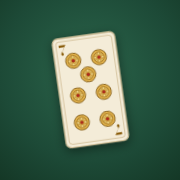
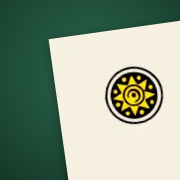
Scopa: carte napoletane vere al posto di quelle disegnate
Le 40 carte e il dorso sono ora le scansioni del mazzo napoletano di
Wikimedia Commons (Trocche100, pubblico dominio), in WebP 320x529 nella
cartella carte/ e messe in cache dal service worker per l'uso offline.
Icone rifatte con il settebello vero; fonti e modifiche nel README.

Claude-Session: https://claude.ai/code/session_01B35AvHLbjFUyg2kKocR2iX

diff --git a/scopa/index.html b/scopa/index.html
@@ -140,11 +140,11 @@ button { font: inherit; color: inherit; }
 .zone.active .who { color: var(--oro); }
 @keyframes pulse { 50% { box-shadow: 0 0 0 7px color-mix(in srgb, var(--oro) 0%, transparent); } }
 
-.backs { display: flex; justify-content: center; min-height: calc(var(--bw) * 1.72); }
+.backs { display: flex; justify-content: center; min-height: calc(var(--bw) * 1.653); }
 .backs .card { width: var(--bw); }
 .backs .card + .card { margin-left: calc(var(--bw) * -0.55); }
 .zone.left .backs, .zone.right .backs { flex-direction: column; align-items: center; }
-.zone.left .backs .card + .card, .zone.right .backs .card + .card { margin-left: 0; margin-top: calc(var(--bw) * -1.38); }
+.zone.left .backs .card + .card, .zone.right .backs .card + .card { margin-left: 0; margin-top: calc(var(--bw) * -1.33); }
 .zone.left .who, .zone.right .who { writing-mode: horizontal-tb; font-size: 11px; }
 
 .felt-table {
@@ -158,7 +158,7 @@ button { font: inherit; color: inherit; }
   justify-content: center;
   padding: 14px;
   overflow: auto;
-  min-height: calc(var(--tw) * 1.72 + 28px);
+  min-height: calc(var(--tw) * 1.653 + 28px);
 }
 .tcards { display: flex; flex-wrap: wrap; justify-content: center; align-content: center; gap: 10px; max-width: 100%; }
 .tcards .card { width: var(--tw); }
@@ -202,7 +202,7 @@ button { font: inherit; color: inherit; }
 /* ---------- carte ---------- */
 .card {
   display: block;
-  aspect-ratio: 100 / 172;
+  aspect-ratio: 1324 / 2188;
   max-width: 100%;
   padding: 0;
   border: 0;
@@ -212,7 +212,17 @@ button { font: inherit; color: inherit; }
   position: relative;
   filter: drop-shadow(0 2px 3px color-mix(in srgb, black 35%, transparent));
 }
-.card svg { display: block; width: 100%; height: 100%; }
+.card img {
+  display: block;
+  width: 100%;
+  height: 100%;
+  box-sizing: border-box;
+  border: 1px solid var(--paper-edge);
+  border-radius: 7% / 4.3%;
+  background: var(--paper);
+  -webkit-user-drag: none;
+  user-select: none;
+}
 button.card { cursor: pointer; transition: transform .18s ease; }
 button.card:disabled { cursor: default; }
 .hand button.card:not(:disabled):hover { transform: translateY(-8px); }
@@ -231,8 +241,6 @@ button.card:disabled { cursor: default; }
 .card.taken::after { border-color: var(--oro); background: color-mix(in srgb, var(--oro) 22%, transparent); }
 .card.hint::after { border-color: #9fe0ff; border-style: dashed; }
 .flyer { position: fixed; left: 0; top: 0; transform-origin: 0 0; z-index: 60; pointer-events: none; }
-.cv { font-family: var(--f-display); font-weight: 700; font-size: 21px; }
-.fig { font-family: var(--f-body); font-weight: 700; font-size: 10px; letter-spacing: .22em; }
 
 /* ---------- scritta scopa ---------- */
 #toast {
@@ -385,10 +393,6 @@ details.rules b { color: var(--chalk); }
 <body>
 <svg width="0" height="0" style="position:absolute" aria-hidden="true">
   <defs>
-    <pattern id="lattice" width="10" height="10" patternUnits="userSpaceOnUse" patternTransform="rotate(45)">
-      <rect width="10" height="10" fill="#7b1d18"/>
-      <path d="M0 5H10M5 0V10" stroke="#e2b24c" stroke-opacity=".45" stroke-width="1.2"/>
-    </pattern>
     <symbol id="s-D" viewBox="0 0 100 100">
       <circle cx="50" cy="50" r="45" fill="#e2b24c" stroke="#7a5410" stroke-width="5"/>
       <circle cx="50" cy="50" r="31" fill="none" stroke="#7a5410" stroke-width="3"/>
@@ -419,13 +423,6 @@ details.rules b { color: var(--chalk); }
         <path d="M44 28Q34 22 31 28Q36 34 44 33Z M57 50Q68 44 71 51Q65 56 57 55Z M45 70Q34 66 32 72Q38 77 46 75Z" fill="#5f8a33" stroke="#2d4a14" stroke-width="2.5"/>
         <path d="M48 14V86" stroke="#3e2410" stroke-width="2" stroke-opacity=".45"/>
       </g>
-    </symbol>
-    <symbol id="back" viewBox="0 0 100 172">
-      <rect x="1.5" y="1.5" width="97" height="169" rx="8" fill="#f4ecd8" stroke="#cdbd97" stroke-width="2"/>
-      <rect x="7" y="7" width="86" height="158" rx="5" fill="url(#lattice)"/>
-      <rect x="7" y="7" width="86" height="158" rx="5" fill="none" stroke="#e2b24c" stroke-width="2"/>
-      <ellipse cx="50" cy="86" rx="20" ry="28" fill="#7b1d18" stroke="#e2b24c" stroke-width="2.5"/>
-      <text x="50" y="96" text-anchor="middle" font-family="Bodoni Moda, Georgia, serif" font-style="italic" font-weight="700" font-size="28" fill="#e2b24c">S</text>
     </symbol>
   </defs>
 </svg>
@@ -513,6 +510,7 @@ details.rules b { color: var(--chalk); }
         <li>Punti: <b>carte</b> (chi ne ha più di 20), <b>denari</b> (più di 5), <b>settebello</b> (il 7 di Denari), <b>primiera</b> e una per ogni scopa. In caso di pareggio il punto non va a nessuno.</li>
         <li><b>Primiera</b>: per ogni seme conta la carta migliore. 7 vale 21, 6 vale 18, Asso 16, 5 vale 15, 4 vale 14, 3 vale 13, 2 vale 12, le figure 10. Vince il totale più alto; serve almeno una carta per seme.</li>
         <li>Nello <b>scopone</b> si gioca in coppia con chi sta di fronte, in senso antiorario. Le prese e le scope della coppia si sommano.</li>
+        <li>Le carte sono le scansioni di un mazzo napoletano pubblicate su Wikimedia Commons da Trocche100, in pubblico dominio.</li>
       </ul>
     </details>
   </div>
@@ -531,7 +529,6 @@ details.rules b { color: var(--chalk); }
 /* ================= mazzo ================= */
 const SUITS = ["D", "C", "S", "B"];
 const SUIT_NAMES = { D: "Denari", C: "Coppe", S: "Spade", B: "Bastoni" };
-const SUIT_COL = { D: "#8a5d0c", C: "#a8231b", S: "#1f3f86", B: "#2d6630" };
 const FIG = { 8: "Fante", 9: "Cavallo", 10: "Re" };
 const PRIME = { 1: 16, 2: 12, 3: 13, 4: 14, 5: 15, 6: 18, 7: 21, 8: 10, 9: 10, 10: 10 };
 const ALL = [];
@@ -550,42 +547,11 @@ function shuffle(a) {
   return a;
 }
 
-/* ================= disegno carte ================= */
-const PIPS = {
-  1: [[50, 86, 60]],
-  2: [[50, 50, 40], [50, 122, 40]],
-  3: [[50, 38, 34], [50, 86, 34], [50, 134, 34]],
-  4: [[30, 50, 32], [70, 50, 32], [30, 122, 32], [70, 122, 32]],
-  5: [[30, 46, 30], [70, 46, 30], [50, 86, 30], [30, 126, 30], [70, 126, 30]],
-  6: [[30, 40, 28], [70, 40, 28], [30, 86, 28], [70, 86, 28], [30, 132, 28], [70, 132, 28]],
-  7: [[30, 38, 26], [70, 38, 26], [50, 62, 26], [30, 92, 26], [70, 92, 26], [30, 134, 26], [70, 134, 26]],
-};
-const EMBLEM = {
-  8: col => `<ellipse cx="50" cy="60" rx="17" ry="5.5" fill="${col}"/><path d="M48 56Q58 36 72 40Q60 45 55 57Z" fill="${col}"/>`,
-  9: col => `<path d="M37 41C37 68 63 68 63 41" fill="none" stroke="${col}" stroke-width="6" stroke-linecap="round"/>`,
-  10: col => `<path d="M31 62V45L41 53L50 39L59 53L69 45V62Z" fill="${col}" stroke-linejoin="round"/>`,
-};
-const svgCache = {};
-function cardSVG(c) {
-  if (svgCache[c.id]) return svgCache[c.id];
-  const col = SUIT_COL[c.s];
-  let body = "";
-  if (c.v <= 7) {
-    for (const [x, y, z] of PIPS[c.v]) body += `<use href="#s-${c.s}" x="${x - z / 2}" y="${y - z / 2}" width="${z}" height="${z}"/>`;
-  } else {
-    body = `<rect x="15" y="32" width="70" height="108" rx="6" fill="${col}" fill-opacity=".1" stroke="${col}" stroke-opacity=".5"/>`
-      + EMBLEM[c.v](col)
-      + `<use href="#s-${c.s}" x="28" y="72" width="44" height="44"/>`
-      + `<text x="50" y="133" text-anchor="middle" class="fig" fill="${col}">${FIG[c.v].toUpperCase()}</text>`;
-  }
-  const corner = `<text x="10" y="27" class="cv" fill="${col}">${c.v}</text>`;
-  const svg = `<svg viewBox="0 0 100 172" aria-hidden="true">`
-    + `<rect x="1.5" y="1.5" width="97" height="169" rx="8" fill="#f4ecd8" stroke="#cdbd97" stroke-width="2"/>`
-    + `<rect x="6.5" y="6.5" width="87" height="159" rx="5" fill="none" stroke="${col}" stroke-opacity=".35" stroke-width="1.2"/>`
-    + body + corner + `<g transform="rotate(180 50 86)">${corner}</g></svg>`;
-  return (svgCache[c.id] = svg);
-}
-const BACK = `<svg viewBox="0 0 100 172" aria-hidden="true"><use href="#back"/></svg>`;
+/* ================= carte ================= */
+// Scansioni del mazzo napoletano da Wikimedia Commons (pubblico dominio, Trocche100).
+const IMG = id => "carte/" + id + ".webp";
+const cardFace = c => `<img src="${IMG(c.id)}" alt="" draggable="false">`;
+const BACK = `<img src="${IMG("back")}" alt="" draggable="false">`;
 const pipIcon = s => `<svg class="pip" viewBox="0 0 100 100" aria-hidden="true"><use href="#s-${s}"/></svg>`;
 const shortCard = c => `${c.v === 1 ? "A" : c.v}${pipIcon(c.s)}`;
 
@@ -893,7 +859,7 @@ const rectOf = el => { const r = el.getBoundingClientRect(); return { x: r.left,
 function makeFlyer(c, r) {
   const d = document.createElement("div");
   d.className = "card flyer";
-  d.innerHTML = c ? cardSVG(c) : BACK;
+  d.innerHTML = c ? cardFace(c) : BACK;
   d.style.width = r.w + "px";
   d.style.height = r.h + "px";
   d.style.transform = `translate(${r.x}px,${r.y}px)`;
@@ -912,7 +878,7 @@ function flyTo(d, from, to, dur, fade) {
 }
 function tableCardSize() {
   const pr = $(".probe");
-  const r = pr ? pr.getBoundingClientRect() : { width: 70, height: 120 };
+  const r = pr ? pr.getBoundingClientRect() : { width: 70, height: 116 };
   return { w: r.width, h: r.height };
 }
 function sourceRect(p, card) {
@@ -929,7 +895,7 @@ function sourceRect(p, card) {
 }
 function pileRect(t) {
   const r = rectOf($(`#pile-${t}`));
-  return { x: r.x + r.w / 2 - 14, y: r.y, w: 28, h: 48 };
+  return { x: r.x + r.w / 2 - 14, y: r.y, w: 28, h: 46 };
 }
 async function flyToPile(cards, t) {
   const dest = pileRect(t);
@@ -1040,7 +1006,7 @@ function renderBoard() {
   const hintIds = new Set(ui.hint?.opt ? ui.hint.opt.cards.map(c => c.id) : []);
   const tcards = S.table.map(c => {
     const cls = [pick.has(c.id) ? "pick" : can.has(c.id) ? "can" : "", hintIds.has(c.id) ? "hint" : ""].join(" ");
-    return `<button type="button" class="card ${cls}" data-id="${c.id}" aria-label="${cardName(c)}"${ui.sel && can.has(c.id) ? "" : " disabled"}>${cardSVG(c)}</button>`;
+    return `<button type="button" class="card ${cls}" data-id="${c.id}" aria-label="${cardName(c)}"${ui.sel && can.has(c.id) ? "" : " disabled"}>${cardFace(c)}</button>`;
   }).join("");
   html += `<section class="felt-table" id="table" aria-label="Carte in tavola">
     <div class="card probe" aria-hidden="true"></div>
@@ -1064,7 +1030,7 @@ function renderBoard() {
   html += `<section class="zone bottom${myTurn ? " active" : ""}" id="zone-0">
     <div class="hand${myTurn ? "" : " waiting"}" id="hand">${hand.map(c => {
       const cls = [ui.sel === c.id ? "sel" : "", ui.hint && ui.hint.card.id === c.id ? "hint" : ""].join(" ");
-      return `<button type="button" class="card ${cls}" data-id="${c.id}" aria-label="${cardName(c)}"${myTurn ? "" : " disabled"}>${cardSVG(c)}</button>`;
+      return `<button type="button" class="card ${cls}" data-id="${c.id}" aria-label="${cardName(c)}"${myTurn ? "" : " disabled"}>${cardFace(c)}</button>`;
     }).join("")}</div>
     <div class="who"><span class="dot"></span><b>Tu</b>${S.mode === "scopone" ? " con Rosa" : ""}</div>
   </section>`;
@@ -1216,7 +1182,7 @@ addEventListener("resize", () => { if (!busy) fitHand(); });
 
 /* ventaglio del menu */
 $("#fan").innerHTML = [{ s: "C", v: 1, id: "C1" }, { s: "D", v: 7, id: "D7" }, { s: "S", v: 10, id: "S10" }]
-  .map(c => `<div class="card">${cardSVG(c)}</div>`).join("");
+  .map(c => `<div class="card">${cardFace(c)}</div>`).join("");
 
 /* aggiornamenti dal vivo: la partita in corso sopravvive a una ripubblicazione */
 window.claude?.hot?.snapshot?.(() => (S ? { S: JSON.parse(JSON.stringify(S)) } : {}));

diff --git a/scopa/sw.js b/scopa/sw.js
@@ -1,8 +1,9 @@
 /* Service worker: la pagina si aggiorna da sola, il gioco resta giocabile senza rete.
    La versione della cache è un'impronta del contenuto, allineata da aggiorna-cache.sh:
    cambia a ogni modifica del gioco, così la copia vecchia non resta mai sul dispositivo. */
-const CACHE = 'giochi-scopa-22db893f02';
-const ASSETS = ['.', 'index.html', 'manifest.webmanifest', 'icon-180.png', 'icon-512.png'];
+const CACHE = 'giochi-scopa-ee8c32ff13';
+const CARTE = ['D1', 'D2', 'D3', 'D4', 'D5', 'D6', 'D7', 'D8', 'D9', 'D10', 'C1', 'C2', 'C3', 'C4', 'C5', 'C6', 'C7', 'C8', 'C9', 'C10', 'S1', 'S2', 'S3', 'S4', 'S5', 'S6', 'S7', 'S8', 'S9', 'S10', 'B1', 'B2', 'B3', 'B4', 'B5', 'B6', 'B7', 'B8', 'B9', 'B10', 'back'].map(id => 'carte/' + id + '.webp');
+const ASSETS = ['.', 'index.html', 'manifest.webmanifest', 'icon-180.png', 'icon-512.png', ...CARTE];
 
 self.addEventListener('install', e => {
   e.waitUntil(caches.open(CACHE).then(c => c.addAll(ASSETS)).then(() => self.skipWaiting()));

diff --git a/scopa/README.md b/scopa/README.md
@@ -39,7 +39,22 @@ uscite per stimare cosa ha in mano chi gioca dopo.
 
 | File | Ruolo |
 | --- | --- |
-| `index.html` | Tutto il gioco: markup, CSS, carte in SVG, regole e avversari |
+| `index.html` | Tutto il gioco: markup, CSS, regole e avversari |
+| `carte/` | Le 40 carte e il dorso, WebP 320×529 |
 | `manifest.webmanifest` | Metadati PWA |
 | `sw.js` | Service worker per l'uso offline |
 | `icon-180.png` / `icon-512.png` | Icone per home screen e install |
+
+## Le carte
+
+Scansioni del mazzo napoletano pubblicate su Wikimedia Commons da Trocche100
+(it.wikipedia), con licenza dichiarata **pubblico dominio** (`PD-user-it`):
+da «01 Asso di denari.jpg» a «40 Dieci di Bastoni.jpg» e «Carte Napoletane retro.jpg»,
+categoria <https://commons.wikimedia.org/wiki/Category:Naples_deck>.
+Le copie usate qui corrispondono byte per byte agli originali di Commons (SHA-1).
+Modifiche: ridotte a 320×529, portate su un fondo color carta, il dorso ritagliato
+alle proporzioni delle carte e virato in rosso scuro.
+
+Sono scansioni di un mazzo stampato moderno: l'Asso di Denari porta la scritta
+«Dal Negro Treviso». Il disegno napoletano ha secoli, ma il pubblico dominio di
+queste immagini si basa solo sulla dichiarazione di chi le ha caricate.
